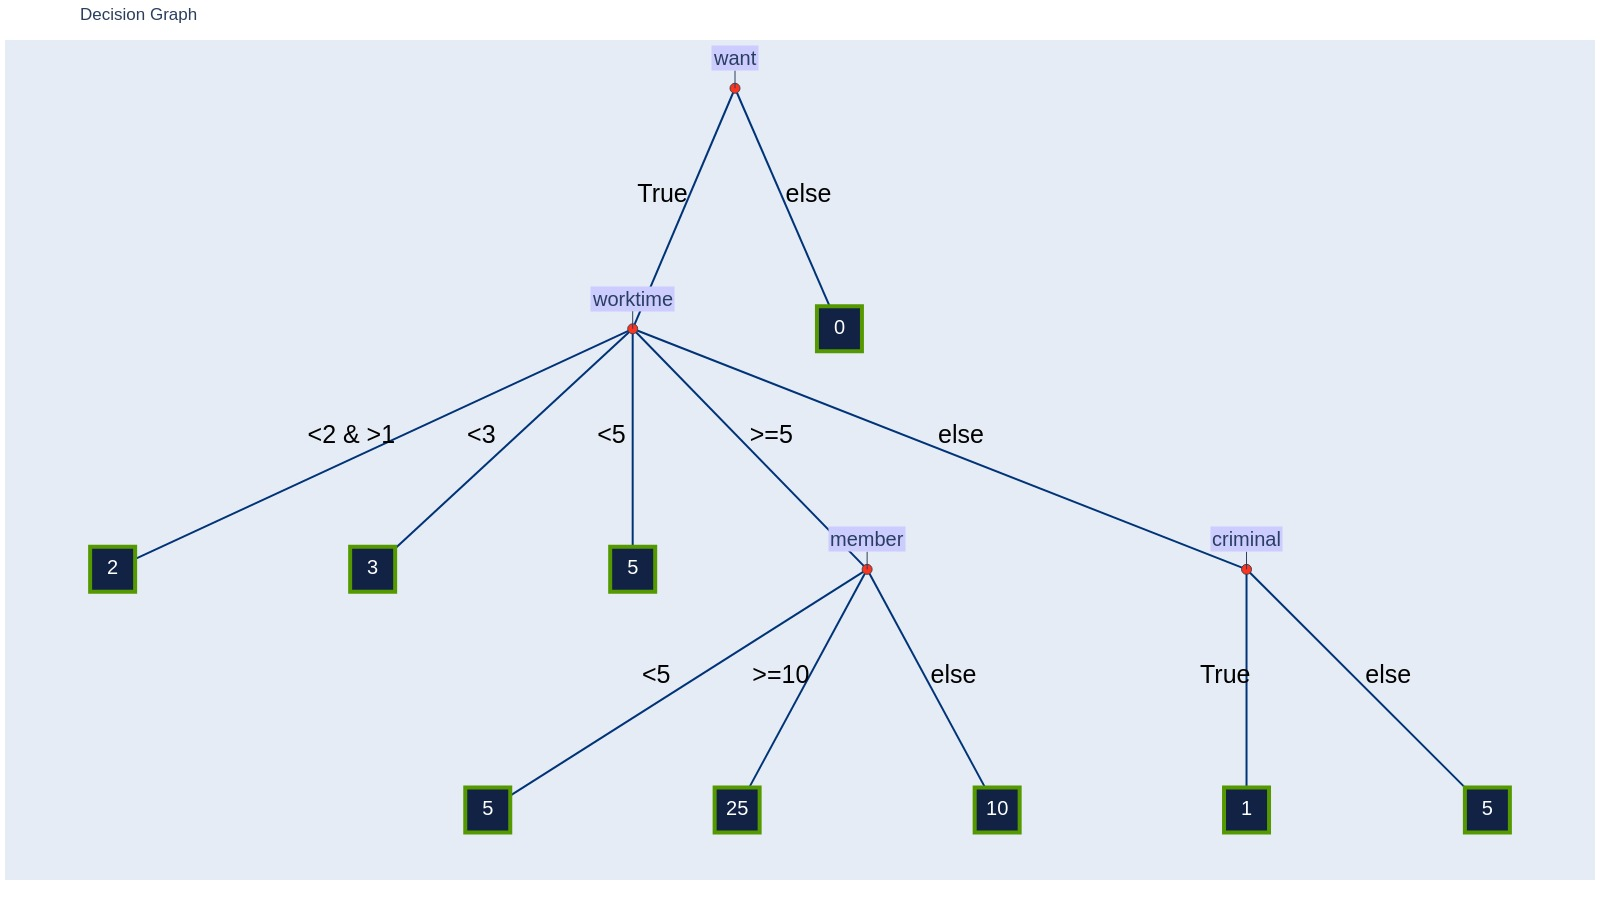
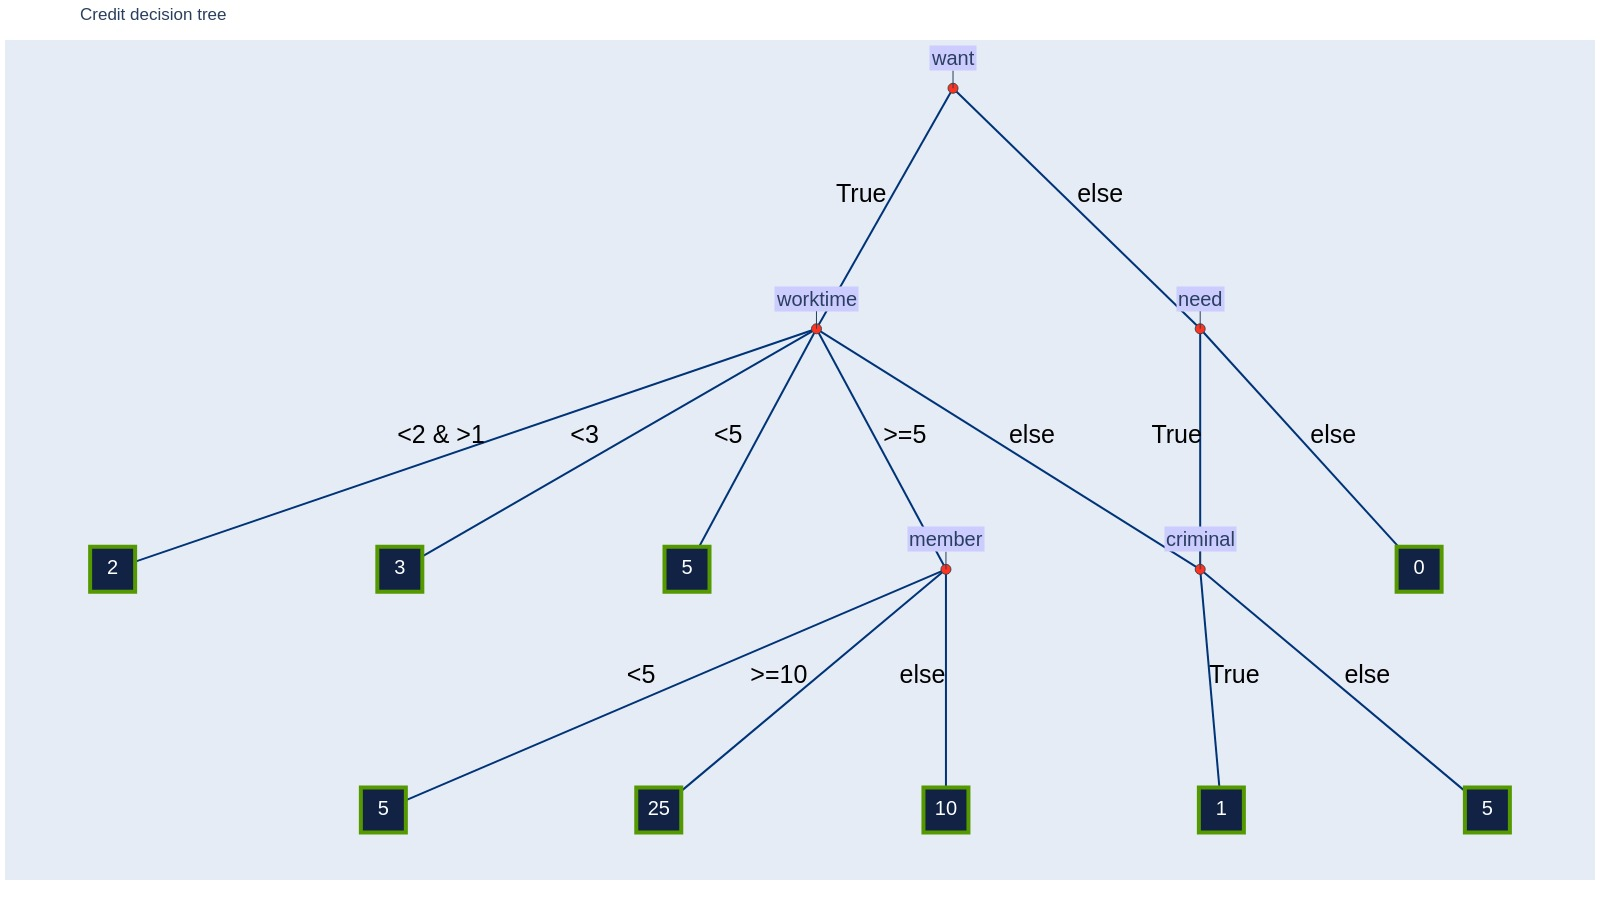
fixed cycle check

diff --git a/decisiontree/decisiontree.py b/decisiontree/decisiontree.py
@@ -166,7 +166,7 @@ class RuleClass(RuleBase):
 
 
 class DecisionTree:
-    def __init__(self):
+    def __init__(self, title=None):
         self.tree = {}
         self.fail = {}
         self.ord_symbols = [r"<=", r">=", r"<", r">", "==", "!="]
@@ -175,6 +175,8 @@ class DecisionTree:
         self.root = None
         self.nodes = None
         self.nodes_set = None
+
+        self.title = title
 
     def add_rule(self, name, conditions=None, outcome=None, next_step=None):
         if outcome:
@@ -426,12 +428,12 @@ class DecisionTree:
 
         root = list(roots)[0]
         visited = {root}
-        goto_nodes = nodes.get(root).get('childs')
+        goto_nodes = list(nodes.get(root).get('childs'))
 
         n = 0
-        while goto_nodes and n < 10:
+        while goto_nodes and n < 1000:
             n += 1
-            next_nodes = set()
+            next_nodes = []
             for cur_name in goto_nodes:
                 if cur_name in visited:
                     err = f"This node was visited before: {cur_name}"
@@ -441,17 +443,16 @@ class DecisionTree:
                 checking_node = nodes[cur_name]
                 vis_num = checking_node.get('visited', 0) + 1
                 checking_node.update({'visited': vis_num})
-
                 if 1 >= len(checking_node.get('parents')):
                     "Adding parents, its only 1, no conflicts"
                     visited.add(cur_name)
                     for ch in checking_node.get('childs'):
-                        next_nodes.add(ch)
+                        next_nodes.append(ch)
                 elif vis_num >= len(checking_node.get('parents')):
                     "Joining paths"
                     visited.add(cur_name)
                     for ch in checking_node.get('childs'):
-                        next_nodes.add(ch)
+                        next_nodes.append(ch)
                 else:
                     "Ignore / wait to join"
 
@@ -593,7 +594,7 @@ class DecisionTree:
         layout = go.Layout(
                 showlegend=False,
                 hovermode='closest',
-                title="Decision Graph",
+                title=self.title,
                 margin=dict(b=20, l=5, r=5, t=40),
                 xaxis=dict(showgrid=False, zeroline=False, showticklabels=False),
                 yaxis=dict(showgrid=False, zeroline=False, showticklabels=False))
@@ -630,10 +631,13 @@ class DecisionTree:
             print("Rules are not even, len:", size, rules_to_check)
 
 
-dt = DecisionTree()
+dt = DecisionTree(title="Credit decision tree")
 
 dt.add_rule('want', next_step='worktime')
-dt.add_fail('want', outcome=0)
+dt.add_fail('want', next_step='need')
+
+dt.add_rule('need', next_step='criminal')
+dt.add_fail('need', outcome=0)
 
 dt.add_rule('worktime', "<2>1", outcome=2)
 dt.add_rule('worktime', "<3", outcome=3)
